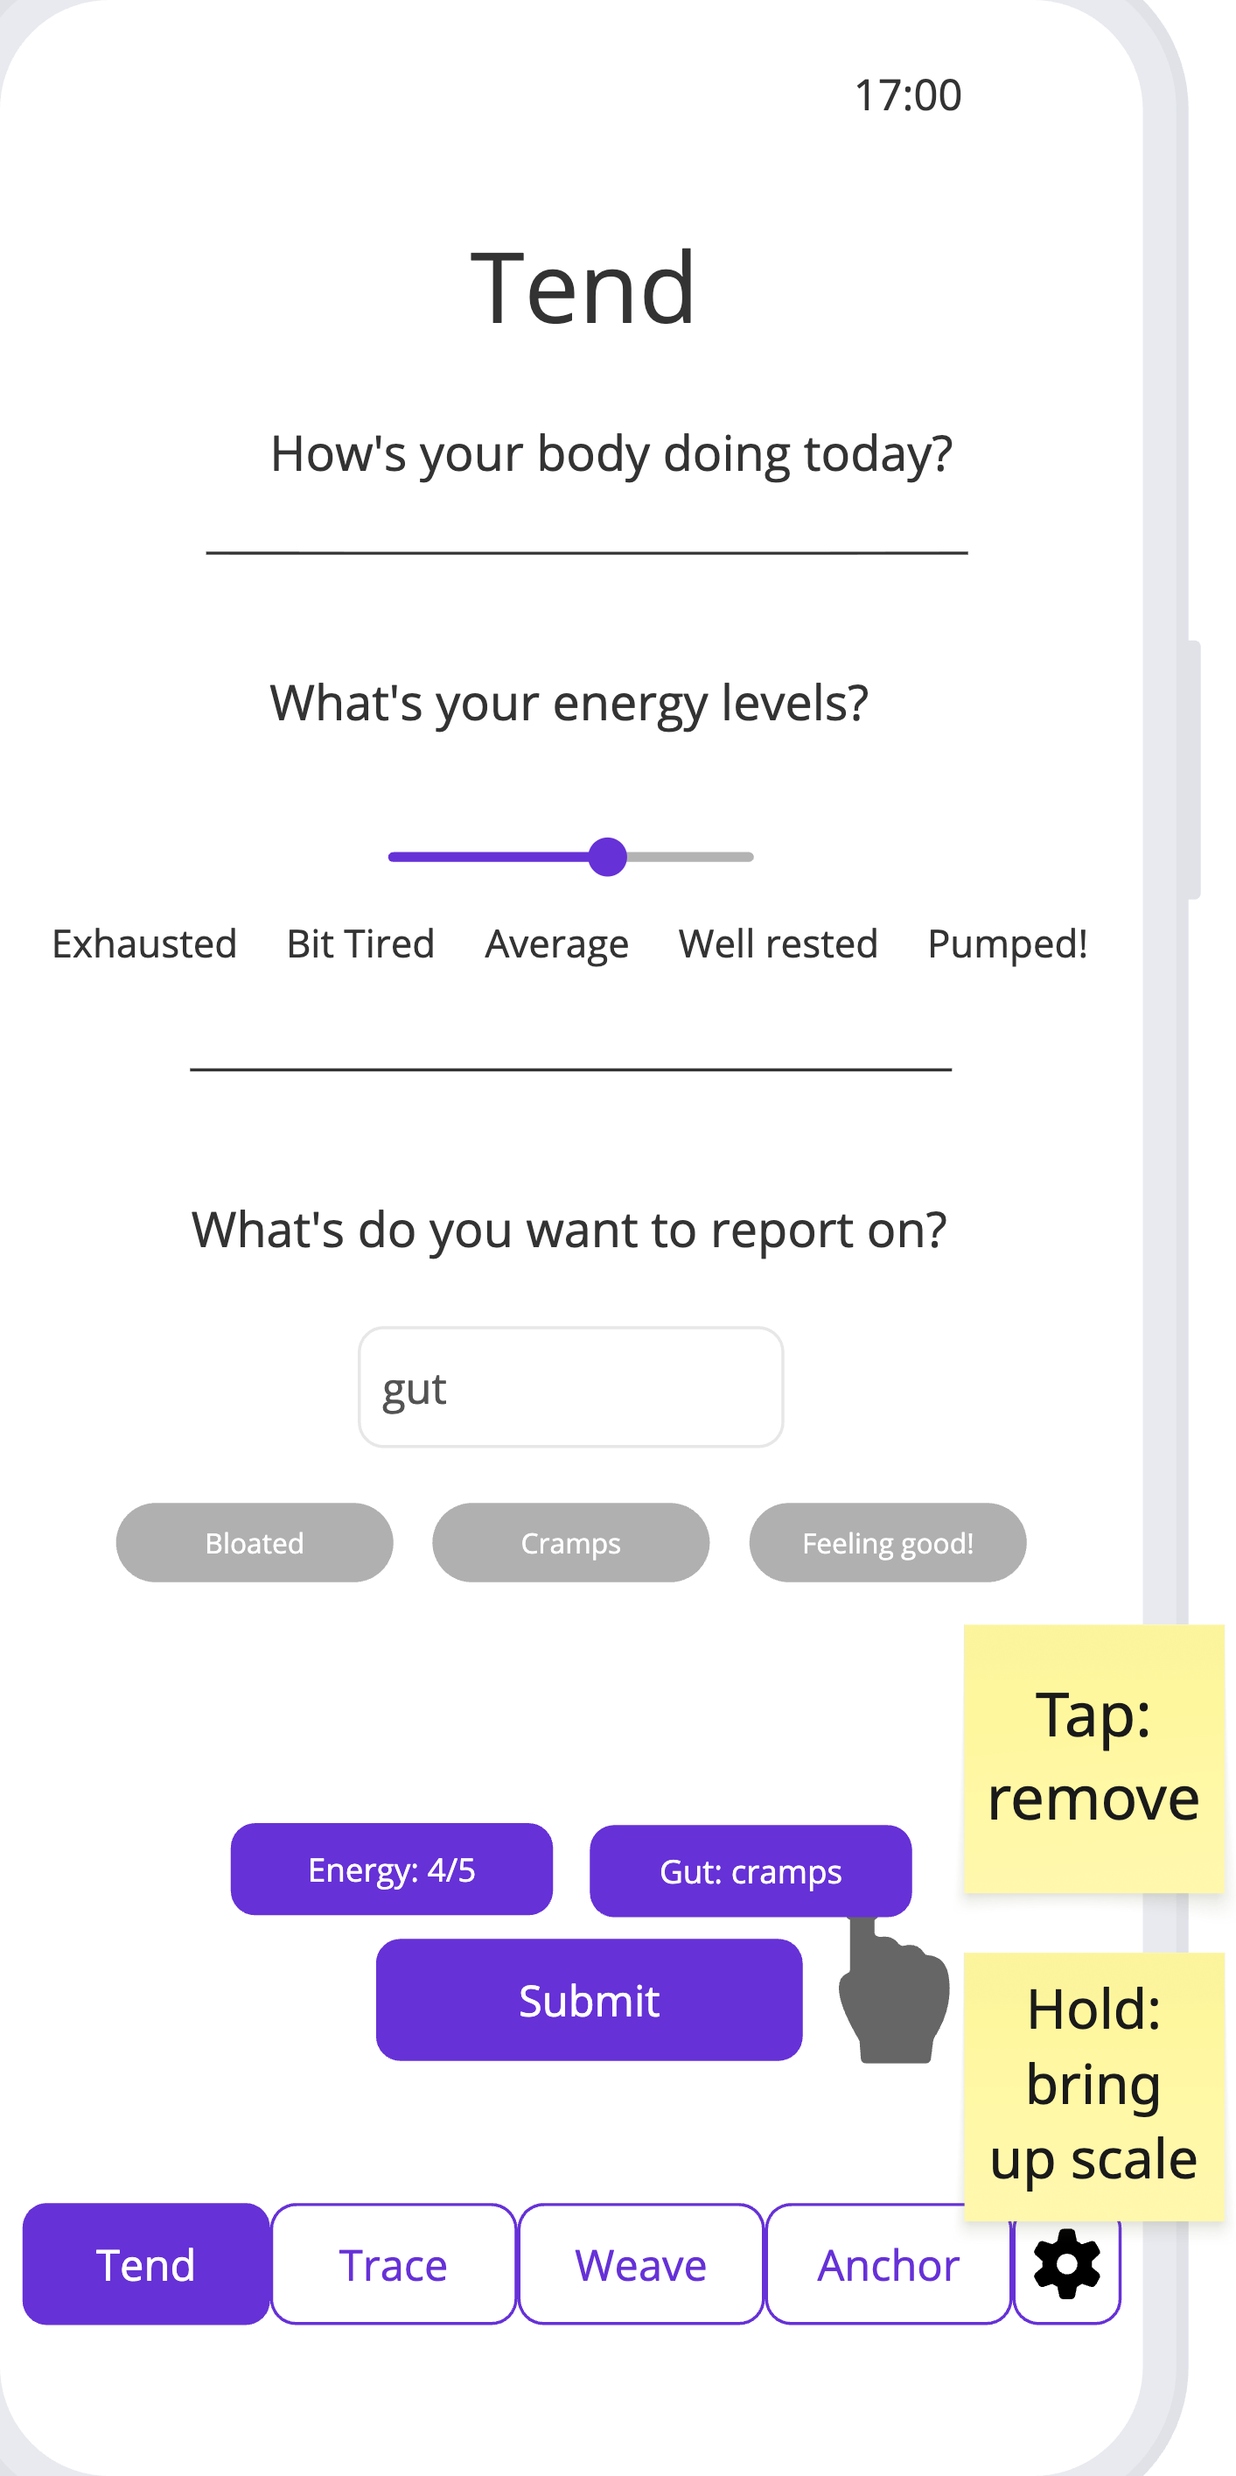
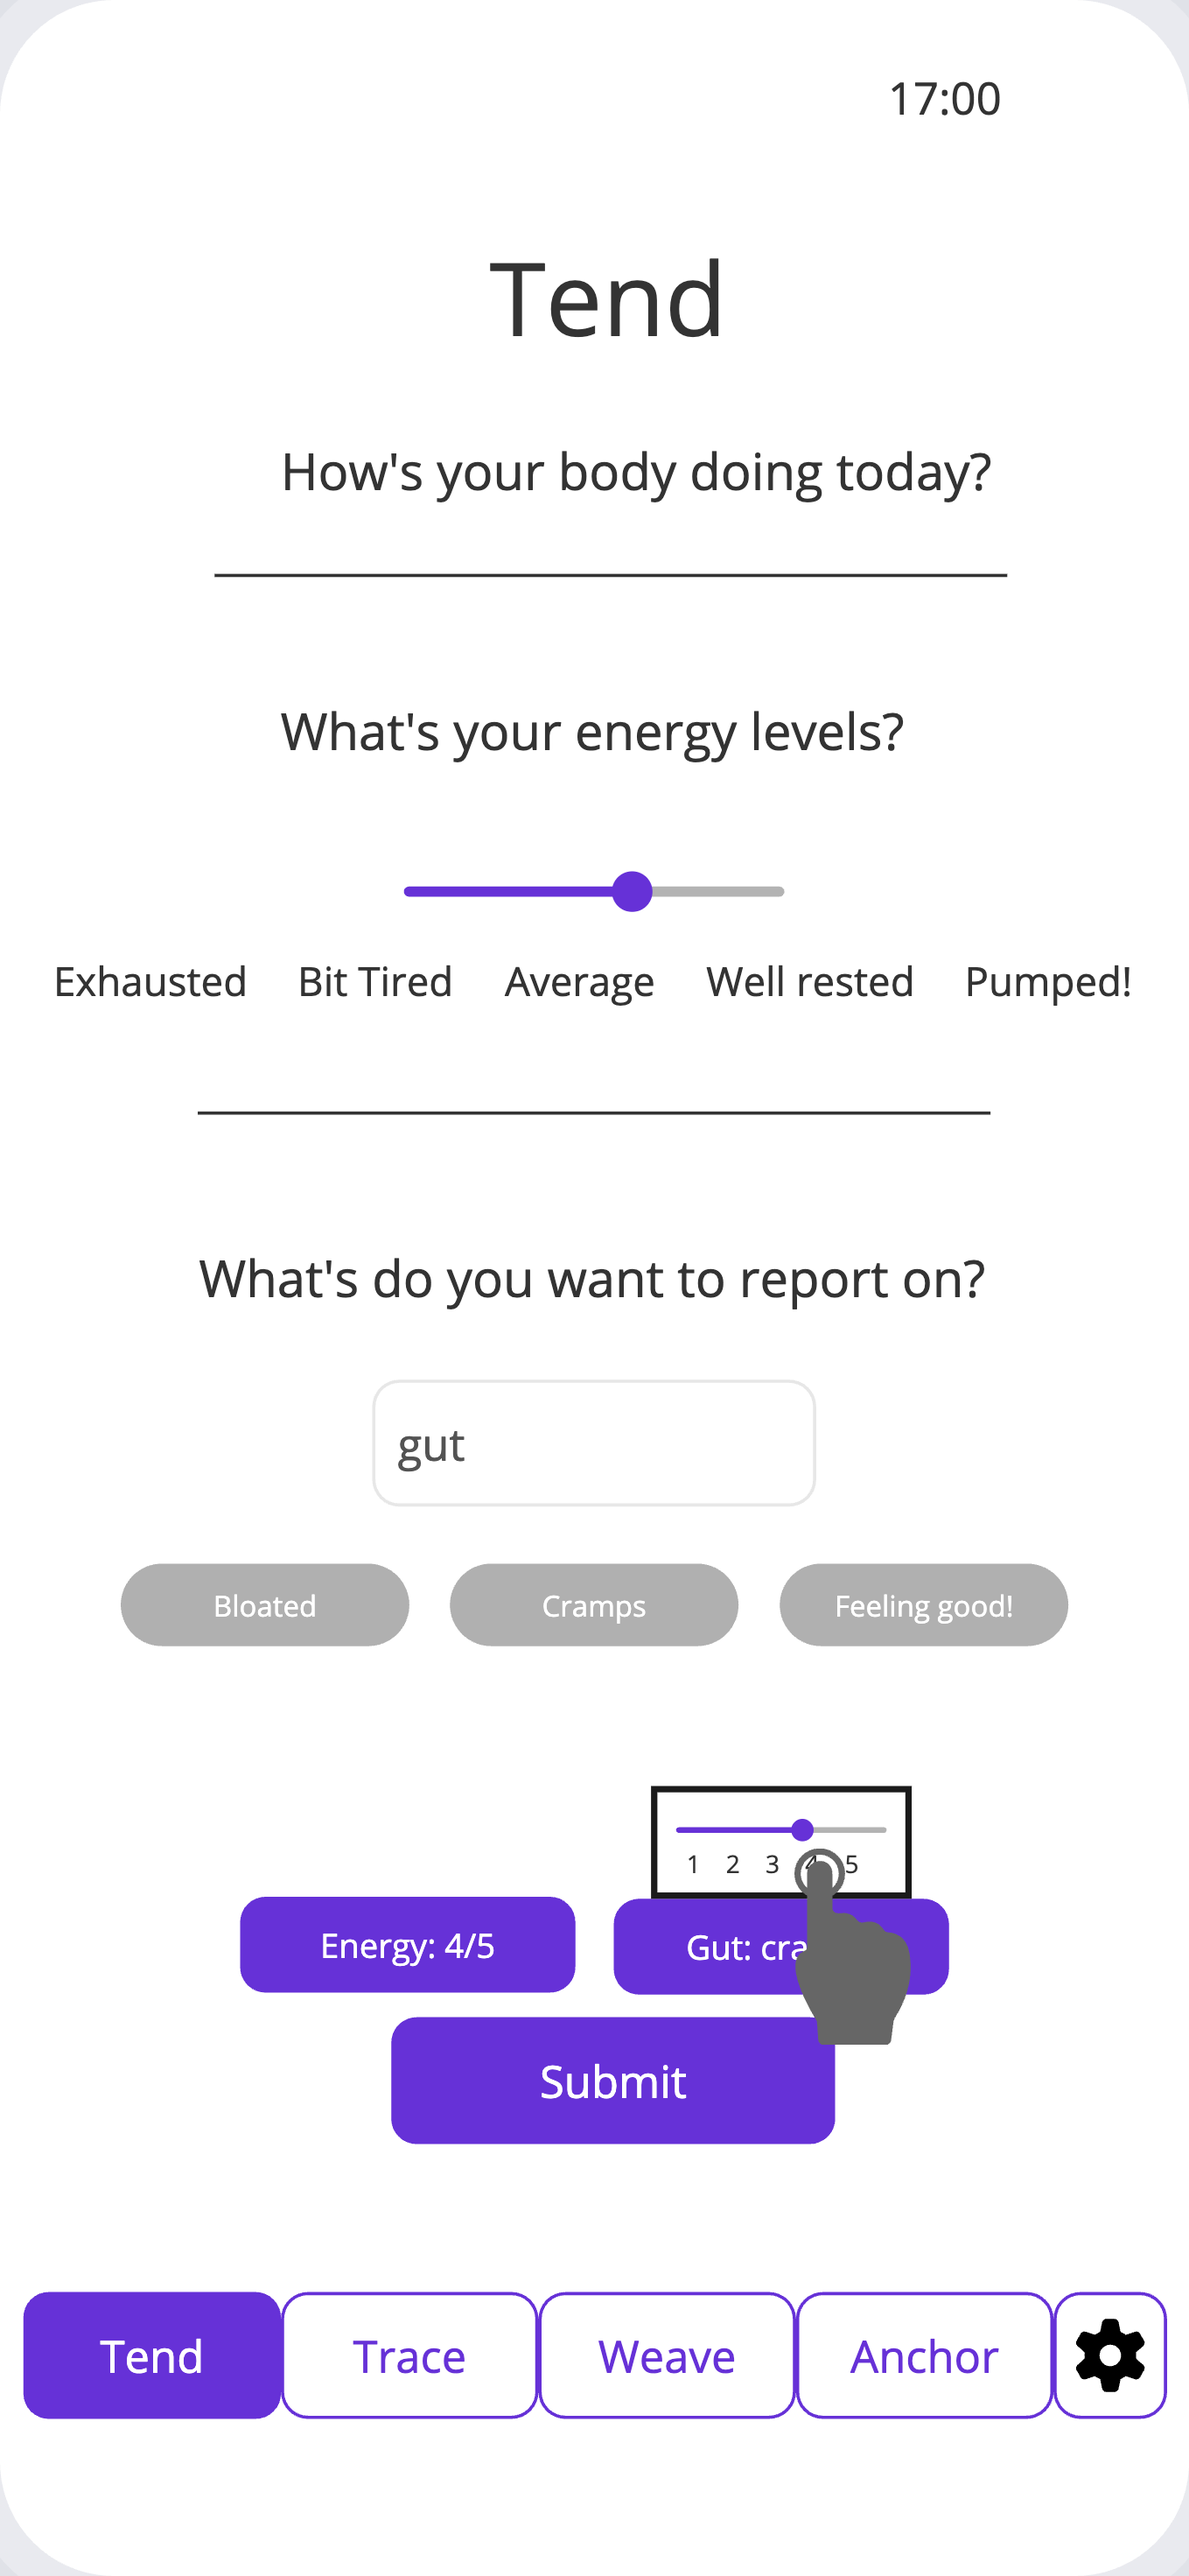
docs: update Physical frames 5-7 and walkthrough for two-stage severity

diff --git a/docs/design/wireframes/v1/Tend-page-physical.md b/docs/design/wireframes/v1/Tend-page-physical.md
@@ -10,7 +10,7 @@
 
 Physical logging is a single screen with two sections: an **Energy slider** and a **flat state search**. No body area navigation — the user searches directly for states. The area context (e.g. "Gut") is inferred from the label's parent in the DB and shown on the chip, but the user never explicitly selects a body area.
 
-Submit appears when Energy is set OR at least 1 state chip is present. See `docs/design/interaction.md` — *Flat chips* pattern, extended with hold-for-severity.
+Submit appears when Energy is set OR at least 1 state chip is present. See `docs/design/interaction.md` — *Flat chips + optional severity* pattern.
 
 ---
 
@@ -45,24 +45,22 @@ User taps **Cramps**.
 ---
 
 ### Physical-5 — State chip added; severity surfaces
-**Gut: cramps** chip appears in the tray alongside Energy: 4/5. A compact severity row (1–5) appears just above the chip tray for ~2 seconds.
+**Gut: cramps** chip appears in the tray alongside Energy: 4/5. A compact severity row (1–5) appears just above the chip tray. User sets severity to 4.
 
-- If the user sets severity in that window → chip updates to include it; severity row dismisses
+- If the user sets severity → chip updates to include it; severity row dismisses
 - If the user ignores it → severity row auto-dismisses; chip shows a small secondary icon (··· or ↕)
 - Tapping the icon at any time reopens the severity row for that chip
 - Tapping the chip itself removes it
 
-> **Note:** wireframe frames 5–6 show a hold gesture for severity — this approach was revised. The two-stage affordance above is the current design. See `docs/design/interaction.md`.
-
 ---
 
 ### Physical-6 — Severity confirmed
-Severity set to 4. Chip updates to **Gut: cramps (4/5)**. Cramps is removed from suggestions — already-selected states are excluded. Submit remains available.
+Chip updates to **Gut: cramps (4/5)**. Cramps removed from suggestions — already-selected states are excluded (now shows Bloated, Feeling good!, Constipation). Submit remains available.
 
 ---
 
-### Physical-8 — Continue logging
-User continues typing **"gut d"** — suggestions narrow to Diarrhea. Tray shows Energy: 4/5 + Gut: cramps (4/5). User can keep adding states or submit.
+### Physical-7 — Continue logging
+User types **"gut d"** — suggestions narrow to Diarrhea. Tray shows Energy: 4/5 + Gut: cramps (4/5). User can keep adding states or submit.
 
 ---
 
@@ -70,9 +68,9 @@ User continues typing **"gut d"** — suggestions narrow to Diarrhea. Tray shows
 
 | Interaction | Result |
 |-------------|--------|
-| Tap suggestion | Adds chip; suggestion removed from results |
+| Tap suggestion | Adds chip; suggestion removed from results; severity row surfaces briefly |
 | Tap chip | Removes chip; state returns to suggestions |
-| Hold chip | Opens inline severity slider (1–5) |
+| Tap ··· / ↕ icon on chip | Reopens severity row for that chip |
 | Set severity | Chip label updates, e.g. "Gut: cramps (4/5)" |
 | Submit enabled | When Energy is set OR ≥1 state chip present |
 | Submit disappears | When Energy is unset AND tray is empty |
@@ -95,4 +93,4 @@ User continues typing **"gut d"** — suggestions narrow to Diarrhea. Tray shows
 - Already-selected states are excluded from results
 - `+ Add [query]` offered when no results match — creates a custom state
 
-> **Open question:** exact search matching logic is TBD. The wireframes show area-contextual search but the full rules — whether area names are searchable keywords, how recency interacts with typed search — still need to be worked out.
+> **Open question:** exact search matching logic is TBD. The wireframes show area-contextual search but the full rules — whether area names are searchable keywords, how recency interacts with typed search, MVP scope — still need to be worked out.
